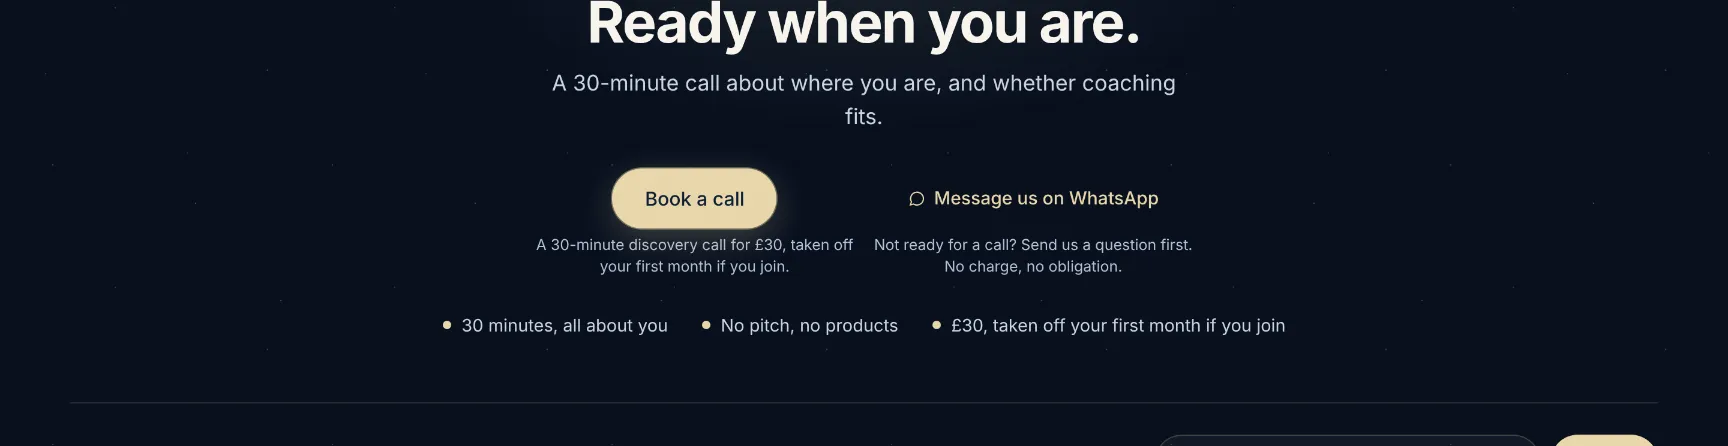
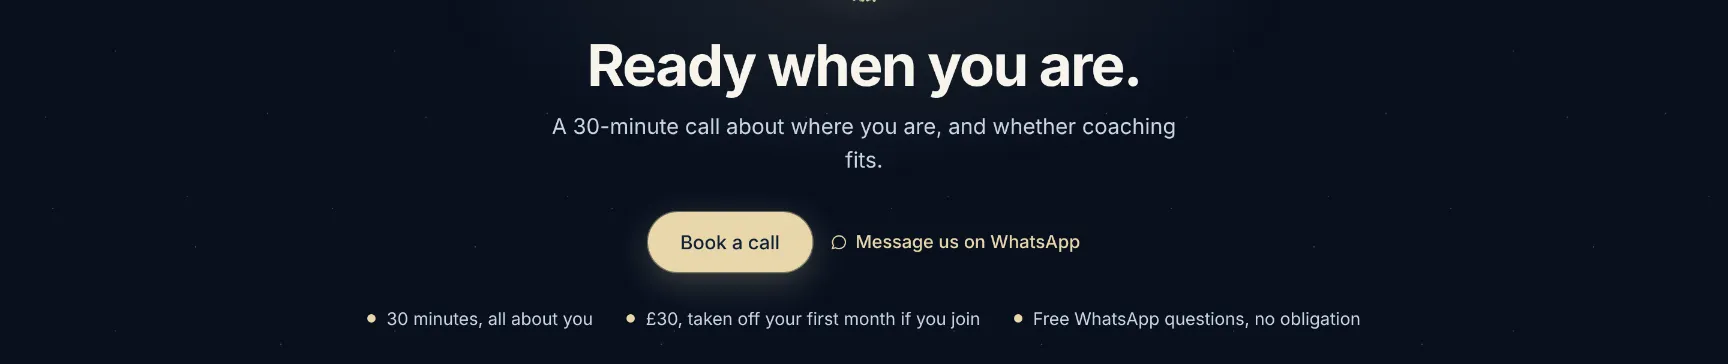
Homepage closing block: fold the call and WhatsApp points into the ticks
The captions under Book a call and WhatsApp repeated the tick below them
and crowded the block. The captions come out here; the ticks now read
"30 minutes, all about you", "£30, taken off your first month if you join"
and "Free WhatsApp questions, no obligation".

Claude-Session: https://claude.ai/code/session_015wx5T31bkKk51W9HEDsQbK

diff --git a/index.html b/index.html
@@ -179,9 +179,9 @@
     <h2 class="h mem">Anything on your mind?</h2>
     <p class="lede vis">A 30-minute call about where you are, and whether coaching fits.</p>
     <p class="lede mem">A question, or something has changed? Send it to your coach.</p>
-    <div class="acts vis tei-opts"><div class="tei-opt"><a class="btn champ" href="/book" target="_blank" rel="noopener">Book a call</a><p class="tei-opt-cap">A 30-minute discovery call for &pound;30, taken off your first month if you join.</p></div><div class="tei-opt"><a class="lnk wa" href="https://wa.me/447843868245" target="_blank" rel="noopener"><svg viewBox="0 0 24 24"><path d="M4 20l1.3-3.8A8 8 0 1 1 8 19z"/></svg>Message us on WhatsApp</a><p class="tei-opt-cap">Not ready for a call? Send us a question first. No charge, no obligation.</p></div></div>
+    <div class="acts vis"><a class="btn champ" href="/book" target="_blank" rel="noopener">Book a call</a><a class="lnk wa" href="https://wa.me/447843868245" target="_blank" rel="noopener"><svg viewBox="0 0 24 24"><path d="M4 20l1.3-3.8A8 8 0 1 1 8 19z"/></svg>Message us on WhatsApp</a></div>
     <div class="acts mem"><a class="btn champ" href="https://wa.me/447843868245" target="_blank" rel="noopener">Message your coach</a><a class="lnk" href="/hub/index.html">Open your Client Hub &rarr;</a></div>
-    <ul class="ticks vis"><li>30 minutes, all about you</li><li>No pitch, no products</li><li>£30, taken off your first month if you join</li></ul>
+    <ul class="ticks vis"><li>30 minutes, all about you</li><li>£30, taken off your first month if you join</li><li>Free WhatsApp questions, no obligation</li></ul>
     <div class="nl vis" id="newsletter">
       <p><b>Not ready yet?</b> Get one clear lesson every fortnight.</p>
       <form id="nlf" data-tei-newsletter="nl-ok" novalidate><input id="nl-e" type="email" placeholder="Your email" autocomplete="email" aria-label="Email address"><button class="btn champ" type="submit">Sign up</button></form>

diff --git a/style.css b/style.css
@@ -128,11 +128,6 @@
 }
 .tei-opts--dark .tei-opt-cap, .tei-menu--site .tei-opt-cap { color: #AAB6C8; }
 .tei-opts--dark { margin-top: 20px; }
-/* Homepage closing block: centred, button and link the same height. */
-.cl .tei-opts { justify-content: center; align-items: flex-start; }
-.cl .tei-opt { align-items: center; }
-.cl .tei-opt > a { min-height: 50px; }
-.cl .tei-opt-cap { text-align: center; }
 /* Quiz result and tool cards: the caption sits tight under its option. */
 .go2 .tei-opt-cap { margin: -2px 2px 2px; }
 .res p.tei-opt-cap { font-size: 12.5px; line-height: 1.45; }
@@ -147,7 +142,6 @@
   .tei-opt-cap, .res p.tei-opt-cap, .tl-next .tl-card .tl-card-go p.tei-opt-cap { font-size: 11.5px; }
   .tei-opts { flex-direction: column; align-items: stretch; gap: 14px; }
   .tei-opts--dark .tei-opt > a { align-self: flex-start; }
-  .cl .tei-opts { align-items: center; }
 }
 
 /* -- 3. Footer -- */
